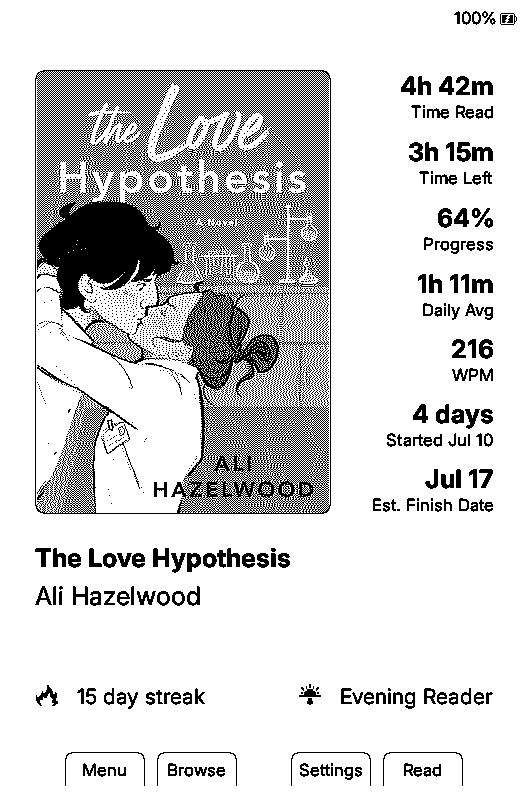
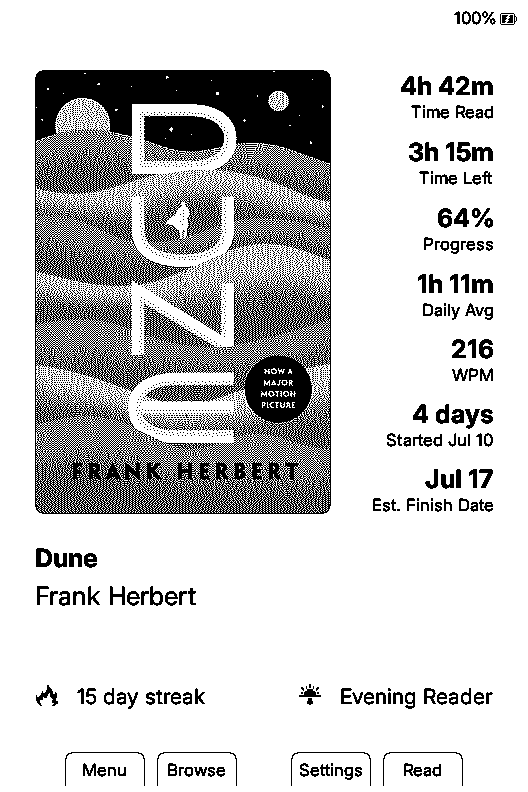
docs: refresh alpha.6 gallery and launch materials

Changed region(s): [[0.0606, 0.0909, 0.6364, 0.6667], [0.0606, 0.697, 0.5455, 0.7879]]

diff --git a/scripts/run_simulator_smoke_test.py b/scripts/run_simulator_smoke_test.py
@@ -398,16 +398,15 @@ def write_book_info_catalog_fixture(temp_root: Path, device_path: str) -> None:
     if not cover_path.exists():
         write_cover_thumbnail(cover_path, 7, 120, 180)
     description = (
-        "A sharp, character-driven story about an impossible choice, a complicated relationship, "
-        "and what happens when the life you planned collides with the life you actually want."
+        "Alice follows a hurried White Rabbit into Wonderland, where riddles, strange rules, "
+        "and unforgettable characters turn an ordinary afternoon into a surreal adventure."
     )
     catalog.write_text(
-        "M\t2\t1\t1\t1\t1\t1\n"
-        "A\t0\tTest Author\n"
-        "S\t0\tTest Series\n"
-        "G\t0\tRomance\n"
-        "P\t0\tSpice 3 - Open Door\n"
-        f"B\t1\t0\t0\t0\t0\t2\t{device_path}\tA Very Long Book Title for More Info Layout Testing\t{description}\n",
+        "M\t2\t1\t1\t0\t1\t1\n"
+        "A\t0\tLewis Carroll\n"
+        "G\t0\tClassic Fantasy\n"
+        "P\t0\tNo romance\n"
+        f"B\t1\t0\t-1\t0\t0\t2\t{device_path}\tAlice's Adventures in Wonderland\t{description}\n",
         encoding="utf-8",
     )
 
@@ -529,6 +528,10 @@ def run_smoke(args: argparse.Namespace) -> int:
             write_cover_signal_fixtures(
                 temp_root, reading_home_sources, args.device, args.real_cover_fixtures
             )
+        elif args.book_info_screenshot and args.real_cover_fixtures:
+            # More Info uses the same hydrated 120x180 cache variant as the
+            # device library. Seed it from the real EPUB cover for public media.
+            write_cover_signal_fixtures(temp_root, [book], args.device, True)
         if args.dashboard_home_screenshot:
             write_dashboard_home_fixture(temp_root, simulator_book_path)
         if args.reading_home_screenshot:

diff --git a/src/simulator/SimulatorSmokeTest.cpp b/src/simulator/SimulatorSmokeTest.cpp
@@ -463,7 +463,7 @@ class SimulatorSmokeTest {
     insights.topGenres[2] = {"Fantasy", 17u * 3600u, 44, 6, 3};
     insights.topAuthorCount = 3;
     insights.topAuthors[0] = {"Sarah J. Maas", 18u * 3600u, 7, 2, 3};
-    insights.topAuthors[1] = {"Ali Hazelwood", 11u * 3600u, 5, 1, 3};
+    insights.topAuthors[1] = {"Jane Austen", 11u * 3600u, 5, 1, 3};
     insights.topAuthors[2] = {"Emily Henry", 8u * 3600u, 4, 1, 2};
     insights.spiceLevelCount = 6;
     insights.spiceLevels[0] = {"Spice 0 - None or Not Romance", 12u * 3600u, 81, 4, 3};
@@ -1075,6 +1075,7 @@ class SimulatorSmokeTest {
     ReadingJournal::recordSession({{2026, 7, 14}, 10, 20, 0}, 77u * 60u, 28);
     HomeActivity readingHome(renderer, mappedInputManager);
     readingHome.onEnter();
+    readingHome.simulatorOverrideBookWordCount(16800);
     readingHome.render(RenderLock{});
     readingHome.render(RenderLock{});
     readingHome.render(RenderLock{});

diff --git a/docs/ALPHA_TESTER_LAUNCH.md b/docs/ALPHA_TESTER_LAUNCH.md
@@ -1,22 +1,81 @@
-# Reddit Soft-Launch Draft
+# Reddit soft-launch draft
 
 ## Title
 
-Duet: looking for Xteink X3/X4 alpha testers for a reading-focused CrossInk fork
+I built Duet, an open-source Xteink X3/X4 firmware with cover libraries, deep reading stats, custom fonts, and two-reader sync [early alpha]
 
 ## Post
 
-Hi! I've been building **Duet**, an open-source CrossInk fork for the Xteink X3 and X4, entirely as a one-person project. I am its creator, designer, maintainer, physical-device tester, documentation department, and person currently asking two tiny e-readers to do an unreasonable number of things. I think it is ready for a small, honest alpha test rather than a grand “everything is finished” launch.
+Hi! I've been building **Duet**, an open-source CrossInk fork for the Xteink X3 and X4, entirely as a one-person project. I am its creator, designer, maintainer, physical-device tester, documentation department, and person currently asking two tiny e-readers to do an unreasonable number of things. It is ready for a small, honest alpha test rather than a grand "everything is finished" launch.
 
-Duet is for people who want these tiny readers to feel like a real personal library: cover grids and a carousel, smart title/author/series search, book descriptions, custom dashboards, a much larger reading-stats system, custom fonts and dictionaries, bookmarks and clippings, configurable reader controls, sleep screens, achievements, and direct X3/X4 stats and position sync.
+Duet is for people who want these tiny readers to feel like a real personal library instead of a folder with page-turn buttons. It combines cover-focused browsing, search and book information, detailed reading history, extensive typography controls, flexible Home screens, dictionaries and saved reading tools, and direct X3/X4 sync.
 
-The current source-verified inventory includes eight Home themes, 6 book-browser layouts, 33 top-level statistics pages, 22 launcher destinations, 12 sleep modes, and 108 persistent achievement milestones. The complete public story is in `docs/DUET_FULL_FEATURE_TOUR.md`, the canonical technical inventory is in `FEATURES.md`, and `THIRD_PARTY_NOTICES.md` records the exact audited upstream revisions and direct versus design-only adaptation.
+The current source-verified inventory includes eight Home themes, six book-browser layouts, 33 top-level statistics pages, 22 launcher destinations, 12 sleep modes, and 108 persistent achievement milestones. The complete public story is in `docs/DUET_FULL_FEATURE_TOUR.md`, the canonical technical inventory is in `FEATURES.md`, and `THIRD_PARTY_NOTICES.md` records the exact audited upstream revisions and direct versus design-only adaptation.
 
 The project is open source under MIT. Forks are welcome. The official source and releases are:
 
 https://github.com/lauren-alexandra/duet-xteink
 
+Screenshots, including every current statistics page on both X3 and X4:
+
+https://lauren-alexandra.github.io/duet-xteink/media/alpha-0.1.0/
+
 The current tester build is **v0.1.0-alpha.6** with separate, clearly named X3 and X4 BINs. Please only test if you are comfortable backing up an SD card, keeping a rollback BIN, and collecting a small log if something goes wrong.
+
+### What is in Duet
+
+#### Library and discovery
+
+- One-line and two-line lists, 2x2, 3x3, and 4x4 cover grids, plus a five-cover carousel.
+- Cover/title and title/author presentation, folder counts, page counts, sort by title or author, and progress/reading-state signals.
+- Smart autocomplete and full search across any title word, author, series, and catalog tags, rather than requiring the query to begin with the first word of a title.
+- More Info pages with cover, title, author, series, description, genre, spice level, progress, and direct Open.
+- Favorites, Saved Items, Recent Books, Mark Finished/Unread, and optional finished-book movement to `/Read`.
+- A desktop cover-prefill tool for large or multiply organized libraries. It creates the exact X3/X4 thumbnails the firmware requests so the first visit to a grid or carousel does not have to generate every cover on the reader.
+- Clean Library Cache, which refuses incomplete scans and moves confirmed orphaned caches into a recoverable `.attic` instead of deleting them.
+
+#### Reading and typography
+
+- EPUB, XTC, XTCH, TXT, and Markdown reading, with saved per-book position.
+- A quick in-reader overlay for chapters, dictionary lookup, Go To, sync, quick stats, X3 tilt controls, auto page turn, spacing, Reader Options, and the full reader menu.
+- Global reader defaults plus automatic per-book overrides for font, size, line spacing, margins, orientation, alignment, publisher styles, hyphenation, images, reading aids, and render profile.
+- Tight, Normal, and Wide line-spacing presets plus granular adjustment; 5-40 px margins; multiple alignment and text-darkness options; Dark Reader Mode; Bionic Reading; Guide Dots; and forced first-line indents.
+- Custom `.cpfont` families grouped by Serif, Sans Serif, Mono/Typewriter, Accessibility, Handwritten/Script, and Blackletter/Decorative.
+- The firmware-only fallback fonts use device-specific size sets to fit inside flash. Standard SD-card families can expose 10, 12, 14, 16, 18, and 20 pt on either X3 or X4.
+- Real Regular, Italic, Bold, and Bold Italic faces where installed, with synthetic bold and italic fallbacks for incomplete families.
+- Font preview, category browsing, style specimens, and A/B comparison.
+- StarDict dictionaries, multiple installed dictionary choices, in-reader lookup, and per-book Looked-Up Words history.
+- Bookmarks, highlighted clippings, `/My Clippings.txt`, footnotes with quick return, screenshots, QR position sharing, auto page turn, and optional X3 tilt-to-turn.
+
+#### Reading statistics
+
+- Reading time, counted sessions, exact session history, pages, estimated words per minute for the current book, time left, dates, completions, goals, and streaks.
+- A deliberate time/session rule: all active reading time is retained, while a counted session requires at least one page turn.
+- Daily journal and per-date book attribution, so time and pages can be traced back to the books that produced them.
+- Current Book, Book Progress, Book Patterns, Trends, Activity, Daily Minutes, Monthly Calendar, a 12-month heatmap, Goals, Recent Sessions, weekday and time-of-day patterns, pace, monthly/year views, session lengths, streak milestones, started/finished history, and book date correction.
+- Reading Profile for raw recent measurements, plus a separate six-axis Reader DNA model and a plain-language Reading Signature with the measurements visible behind both.
+- Fastest Reads, Wrapped, Started Books, Library Overview, Reading Taste, Series Progress, This Device, All Devices, and Device Split.
+- Manual time correction with validation and rollback, deliberate holds before changing start/finish dates, optional exclusions for books under `/ignore_stats/`, and complete `.cstats` export/restore archives.
+
+#### Home, personalization, and tools
+
+- Eight Home themes: Classic, Minimal, Dashboard, Dashboard Extended, Lyra, Lyra Extended, Lyra Carousel, and RoundedRaff.
+- Home Stats customization with selectable dashboard rows, footer values, and strip values.
+- A customizable 22-destination Home/Apps launcher with protected escape routes so Settings and Browse Files cannot accidentally become unreachable.
+- 108 persistent achievements across reading starts, sessions, finished books, reading time, goals, streaks, bookmarks, long sessions, reading days, screen pages, series, reading times, and cross-device use.
+- Twelve sleep modes, including custom images, book covers, Page Overlay, statistics, Dashboard, Minimal, and Quick Resume presentations.
+- Custom BMP sleep images, transparent PNG Page Overlays, fitted/cropped cover options, Screen Clean, and configurable locked-screen image cycling.
+- Tetris, Favorites, Dictionary, If Found, File Transfer, OPDS, KOReader setup, and recovery tools without turning the reader into a general-purpose app collection.
+
+#### Two readers and recovery
+
+- Nearby Position Sync compares the current EPUB position and moves only after explicit confirmation.
+- Nearby Reading Stats Sync exchanges device names, global totals, per-book detail, journals, attribution ledgers, Stats Date, and retained peer snapshots while preserving separate This Device and All Devices views.
+- KOReader Sync remains available for remote book-position synchronization.
+- Duet writes new state under `/.duet` and non-destructively imports inherited `/.crossink`, `/.crosspoint`, and `/.crossink-stats-backup` state without deleting the original source.
+- Cache-safe book moves preserve durable progress and statistics while disposable layout data can rebuild.
+- Crash reports and breadcrumb timing cover boot, Home, picker, sync preparation, reader transitions, and chapter pre-indexing.
+- The X3 and X4 use one shared source tree with device-specific geometry, memory profiles, refresh handling, and public build targets.
 
 I genuinely want all the useful feedback I can get: bugs, confusing button behavior, features you wish existed, accessibility needs, documentation that does not make sense, performance differences between cards or devices, visual details that feel off, and things Duet already does especially well. You do not need to be a firmware developer to notice something valuable. If you are a developer and would like to help investigate, fix, document, test, or improve any part of Duet, I would genuinely love that too. Focused pull requests are welcome, and the contributor guide identifies the areas where another pair of technical eyes would help most.
 

diff --git a/docs/SCREENSHOT_PLAN.md b/docs/SCREENSHOT_PLAN.md
@@ -1,6 +1,6 @@
 # Public Screenshot and Demo Plan
 
-Public media should show Duet clearly without publishing Lauren's library, reading history, contact details, credentials, or device identifiers.
+Public media should show Duet clearly without publishing Lauren's ebook files, catalogs, reading history, contact details, credentials, or device identifiers.
 
 ## Demo Data
 
@@ -41,7 +41,7 @@ The soft launch does not need all fourteen scenes. Publish these first:
 6. Nearby Sync showing both device names with fictional or generic labels.
 7. The System page showing the exact Duet alpha version.
 
-Hold back any screen that still misstates data, stalls during the recording, or contains real library or account details. A smaller honest set is better than an exhaustive set from an older build.
+Hold back any screen that still misstates data, stalls during the recording, or contains private catalog, account, contact, or device details. A smaller honest set is better than an exhaustive set from an older build.
 
 ## Short Videos
 
@@ -72,6 +72,7 @@ Keep each clip focused and short enough that viewers can see responsiveness with
 ```text
 docs/media/
 |-- alpha-0.1.0/
+|   |-- demo/
 |   |-- x3/
 |   |-- x4/
 |   |-- web/
@@ -87,7 +88,7 @@ The public repository contains the reviewed native-resolution simulator gallery 
 
 ## Current Candidate Coverage
 
-The public alpha.6 gallery now contains 43 fresh Reading Stats captures for each device: all 33 top-level pages plus 10 useful alternate and detail states. It also includes fresh X3/X4 Dashboard, Reading Home, hydrated grid, carousel, search, More Info, reader overlay, dictionary, achievement, utility, and font captures generated from the current source. Alpha.3 and alpha.5 captures remain private reference material and are not represented as current alpha.6 evidence.
+The public alpha.6 gallery now contains 43 fresh Reading Stats captures for each device: all 33 top-level pages plus 10 useful alternate and detail states. Its main gallery mixes approved real-library covers with public-domain classics, and its separate reproducible demo uses only public-domain classics and a checked-in catalog fixture. It also includes fresh X3/X4 Dashboard, Reading Home, hydrated grid, carousel, search, More Info, reader overlay, dictionary, achievement, utility, and font captures generated from the current source. Alpha.3 and alpha.5 captures remain private reference material and are not represented as current alpha.6 evidence.
 
 Real book titles and rendered cover art appear in the library, dashboard, search, More Info, and reader scenes. All reading statistics, progress, sessions, streaks, achievements, sync results, and device names are fabricated.
 

diff --git a/README.md b/README.md
@@ -34,7 +34,7 @@ Developers are especially welcome. Duet is currently maintained by Lauren alone,
 
 ## Screenshots and demos
 
-These native-resolution alpha.6 simulator captures use real book titles and covers inside the interface, with completely fabricated reading history, dates, progress, achievements, device names, and sync data. No EPUBs, extracted cover files, personal catalogs, or real device-state files are included.
+These native-resolution alpha.6 simulator captures use a mix of recognizable books from Lauren's library and public-domain classics as interface examples. Every reading-history value, date, progress value, achievement state, device name, and sync value is fabricated. A separate all-classics demo set is reproducible from the checked-in catalog fixture. No EPUBs, extracted cover files, personal catalogs, or real device-state files are included.
 
 | X4 feature overview | X3 feature overview |
 | --- | --- |
@@ -60,7 +60,7 @@ The core reader — inherited from [CrossPoint Reader](https://github.com/crossp
 - A **quick overlay menu** in every book: Chapter picker, Dictionary, Go To %, Sync (with a KOReader-or-Nearby chooser), Reading Stats, Tilt page-turn (on devices with an accelerometer), Auto Page Turn, line spacing, and Reader Options — plus a full menu with bookmarks, clippings, screenshots, QR sharing, and Book Info.
 - **Refresh modes** (Auto / Fast / Half / Full), **Text Darkness** (Normal / Dark / Extra Dark), **Bionic Reading** (Off / Normal / Subtle), Dark Reader Mode, orientation control, and status-bar customization.
 - **Guarded chapter pre-indexing**: the next chapter can build silently in the background while you read, cooperatively yielding and cancelling at safe checkpoints when input arrives. Timing logs expose completion, cancellation, low-memory deferral, and failure.
-- Device-tuned built-in sizes with real layout reflow: **10 / 12 / 14 / 16 pt on X3** and **16 / 18 / 20 pt on X4**. SD-card families expose whichever sizes are installed.
+- The firmware-only fallback fonts are device-tuned for flash space: **10 / 12 / 14 / 16 pt on X3** and **16 / 18 / 20 pt on X4**. Install an SD-card font family with the standard Duet set to use **10 / 12 / 14 / 16 / 18 / 20 pt on either device**, with real layout reflow at every installed size.
 - Per-book progress survives updates and restarts, and **Quick Resume** can preserve the visible page while sleeping.
 - Reading position, bookmarks, clippings, and stats are debounce-persisted; active reading time is committed before deep sleep through an idempotent path.
 

diff --git a/docs/media/alpha-0.1.0/MEDIA_MANIFEST.md b/docs/media/alpha-0.1.0/MEDIA_MANIFEST.md
@@ -5,25 +5,27 @@
 - Duet version: `0.1.0-alpha.6`
[2 lines of base64/hex data omitted]
-- Capture source: alpha.6 public release checkout and deterministic simulator fixture
+- Capture source: alpha.6 public release checkout, deterministic statistics fixture, a private mixed-library input set for the main gallery, and a public-domain classics demo fixture
 - Native dimensions: X3 `528x792`; X4 `480x800`
 
 ## Inventory
 
 - 43 X3 Reading Stats screenshots
 - 43 X4 Reading Stats screenshots
-- 8 curated X3 feature screenshots plus one X3 overview sheet
+- 6 curated X3 feature screenshots plus one X3 overview sheet
 - 13 curated X4 feature/app screenshots plus one X4 overview sheet
+- 4 reproducible public-domain X3 demo screenshots
+- 7 reproducible public-domain X4 demo screenshots
 - 4 X4 font previews
-- Total: 111 PNG files
+- Total: 122 PNG files
 
 ## Data Provenance
 
-Real book titles and public-facing cover art appear only inside the simulated Duet interface. The underlying EPUBs and extracted cover files are not included. All progress, reading time, dates, sessions, pace, streaks, completion estimates, achievements, device names, and sync data are deterministic fabricated test values.
+The main gallery mixes recognizable books from Lauren's library with public-domain classics inside the simulated Duet interface. The separate demo folders use only public-domain classics and the checked-in catalog fixture. The underlying EPUBs and extracted cover files are not included. All progress, reading time, dates, sessions, pace, streaks, completion estimates, achievements, device names, and sync data are deterministic fabricated test values.
 
 ## Review
 
-- All 111 PNG files decode successfully through ImageMagick.
+- All 122 PNG files decode successfully through ImageMagick.
 - Every local image and gallery link in the README and media indexes resolves.
 - X3 and X4 feature overview sheets were reviewed for hydrated covers, density, footer fit, and visible metadata.
 - Representative dense statistics pages were reviewed side by side at native aspect ratio, including Current, Heatmap, Reader DNA, Wrapped, Library, Started, Devices, and Trends.

diff --git a/docs/media/alpha-0.1.0/README.md b/docs/media/alpha-0.1.0/README.md
@@ -1,6 +1,6 @@
 # Duet Alpha.6 Screenshot Gallery
 
-These screenshots were generated at native X3 and X4 resolution from the Duet v0.1.0-alpha.6 simulator path. Real book titles and cover art appear only as incidental interface content. Every reading statistic, progress value, date, achievement state, device name, and sync value is deterministic fabricated test data. No EPUB, extracted cover asset, personal catalog, credential, contact detail, or real device-state file is included.
+These screenshots were generated at native X3 and X4 resolution from the Duet v0.1.0-alpha.6 simulator path. The main gallery mixes recognizable books from Lauren's library with public-domain classics so the interface looks like a real, varied reader. Every reading statistic, progress value, date, achievement state, device name, and sync value is deterministic fabricated test data. No EPUB, extracted cover asset, personal catalog, credential, contact detail, or real device-state file is included.
 
 ## Feature Overviews
 
@@ -37,6 +37,10 @@ Additional captures show [Book Info from the reader](x4/reader-book-info.png) an
 ## Complete Reading Stats Gallery
 
 The [complete X3/X4 Reading Stats gallery](stats/README.md) contains all 33 top-level pages and 10 alternate or detail states for each device, for 86 native-resolution images.
+
+## Reproducible Classics Demo
+
+The separate [X3](demo/x3/) and [X4](demo/x4/) demo folders use only public-domain classics and the checked-in [`public-classics-library-catalog.tsv`](../../../scripts/fixtures/public-classics-library-catalog.tsv) fixture. They provide neutral, reproducible references for the cover grid, carousel, Reading Home, More Info, and autocomplete search without requiring Lauren's library. The underlying Project Gutenberg EPUBs and extracted cover files are not part of the repository.
 
 ## Evidence Boundary
 

diff --git a/FEATURES.md b/FEATURES.md
@@ -175,7 +175,7 @@ Nearby Position Sync is **not** unique to Duet; it is inherited from CrossInk. K
 | X3 built-in sizes | 10, 12, 14, and 16 pt in `x3-public`. | CrossInk build variants; Duet public profile |
 | X4 built-in sizes | 16, 18, and 20 pt in `x4-public`. | CrossInk build variants; Duet public profile |
 | SD-card font families | `.cpfont` families discovered from `/.fonts/` or `/fonts/`, grouped as Serif, Sans Serif, Mono/Typewriter, Accessibility, Handwritten/Script, and Blackletter/Decorative. | CrossPoint/CrossInk SD fonts; Duet catalog and grouping |
-| SD-card sizes | A family exposes the sizes actually installed. The standard personal generation set uses 10, 12, 14, 16, 18, and 20 pt, but the firmware does not invent missing files. | CrossInk format; Duet registry |
+| SD-card sizes | A family exposes the sizes actually installed. The standard Duet generation set uses 10, 12, 14, 16, 18, and 20 pt on either X3 or X4, but the firmware does not invent missing files. | CrossInk format; Duet registry |
 | Font styles | Real Regular, Italic, Bold, and Bold Italic where present; synthetic bold and/or italic when a family lacks a face. | CrossPoint/CrossInk format; Duet fallbacks |
 | Font picker | Category browsing, compact Normal/Italic/Bold specimen rows, style-availability handling, and consistent preview sizing. | Duet |
 | A/B comparison | Two installed families rendered side by side at matched sizes. | Duet |

diff --git a/USER_GUIDE.md b/USER_GUIDE.md
@@ -219,7 +219,7 @@ The Settings screen allows you to configure the device's behavior. There are a f
   - "Lexend Deca" (default)
   - "Bitter"
 
-- **Reader Font Size**: Adjust the text size for reading. The public X3 build includes 10, 12, 14, and 16 pt built-ins. The public X4 build includes 16, 18, and 20 pt built-ins. An SD-card font family exposes the sizes actually installed for that family.
+- **Reader Font Size**: Adjust the text size for reading. The firmware-only X3 fallback fonts include 10, 12, 14, and 16 pt; the firmware-only X4 fallbacks include 16, 18, and 20 pt. Those smaller built-in sets preserve flash space and do not limit SD fonts. A standard Duet SD-card family can expose 10, 12, 14, 16, 18, and 20 pt on either device, and any manually installed family exposes the sizes actually present.
 
 - **Reader Line Spacing**: Choose Tight, Normal, or Wide, then adjust the line height percentage more precisely if desired.
 

diff --git a/docs/reader-features.md b/docs/reader-features.md
@@ -33,7 +33,7 @@ For books that are slow to index or fail because of complex publisher styling, s
 
 ## Font Sizes And Downloadable Font Ranges
 
-The public X3 build includes 10, 12, 14, and 16 pt for both selectable built-in families. The public X4 build includes 16, 18, and 20 pt. SD-card families expose the point sizes actually installed for that family.
+The firmware-only X3 fallback fonts include 10, 12, 14, and 16 pt. The firmware-only X4 fallbacks include 16, 18, and 20 pt. These device-specific built-in sets save flash space; they are not a limit on custom fonts. A standard Duet SD-card family can expose 10, 12, 14, 16, 18, and 20 pt on either device, while any manually installed family exposes the point sizes actually present.
 
 The reader can also use SD-card font packs with selectable font-size ranges. This lets you keep the installed firmware smaller while still using extra sizes or custom fonts from the SD card.
 

diff --git a/docs/STATS_MEDIA_FIXTURE.md b/docs/STATS_MEDIA_FIXTURE.md
@@ -16,7 +16,7 @@ The current simulator fixture includes:
 - Four populated genres, four authors, eight heat categories, and 24 series.
 - Populated monthly, yearly, weekday, time-of-day, session-length, timeline, fastest-read, start/finish, Reader DNA, and Wrapped views.
 
-`The Love Hypothesis` may appear as real interface display text. Its progress, reading time, pace, sessions, dates, and every other statistic are invented. All other fixture book and author names are fictional.
+Recognizable books may appear as interface display text and cover art in the broader gallery. Their progress, reading time, pace, sessions, dates, and every other statistic are invented. The reproducible demo uses only public-domain classics, and all remaining fixture book and reader names are fictional.
 
 ## Capture Inventory
 

diff --git a/docs/DUET_FULL_FEATURE_TOUR.md b/docs/DUET_FULL_FEATURE_TOUR.md
@@ -589,8 +589,9 @@ Duet uses one shared source tree for both readers, with device-specific build pr
 
 Current intentional differences include:
 
-- X3 built-in font sizes: 10, 12, 14, 16 pt
-- X4 built-in font sizes: 16, 18, 20 pt
+- X3 firmware-only fallback sizes: 10, 12, 14, 16 pt
+- X4 firmware-only fallback sizes: 16, 18, 20 pt
+- Standard SD-card family sizes on either device: 10, 12, 14, 16, 18, 20 pt
 - X3 can expose tilt page turn when its QMI8658 sensor is available
 - Minimal Stats sleep mode is visible on X3 and hidden on X4
 - Display refresh and memory limits require device-specific tuning even when the user-facing feature is shared
